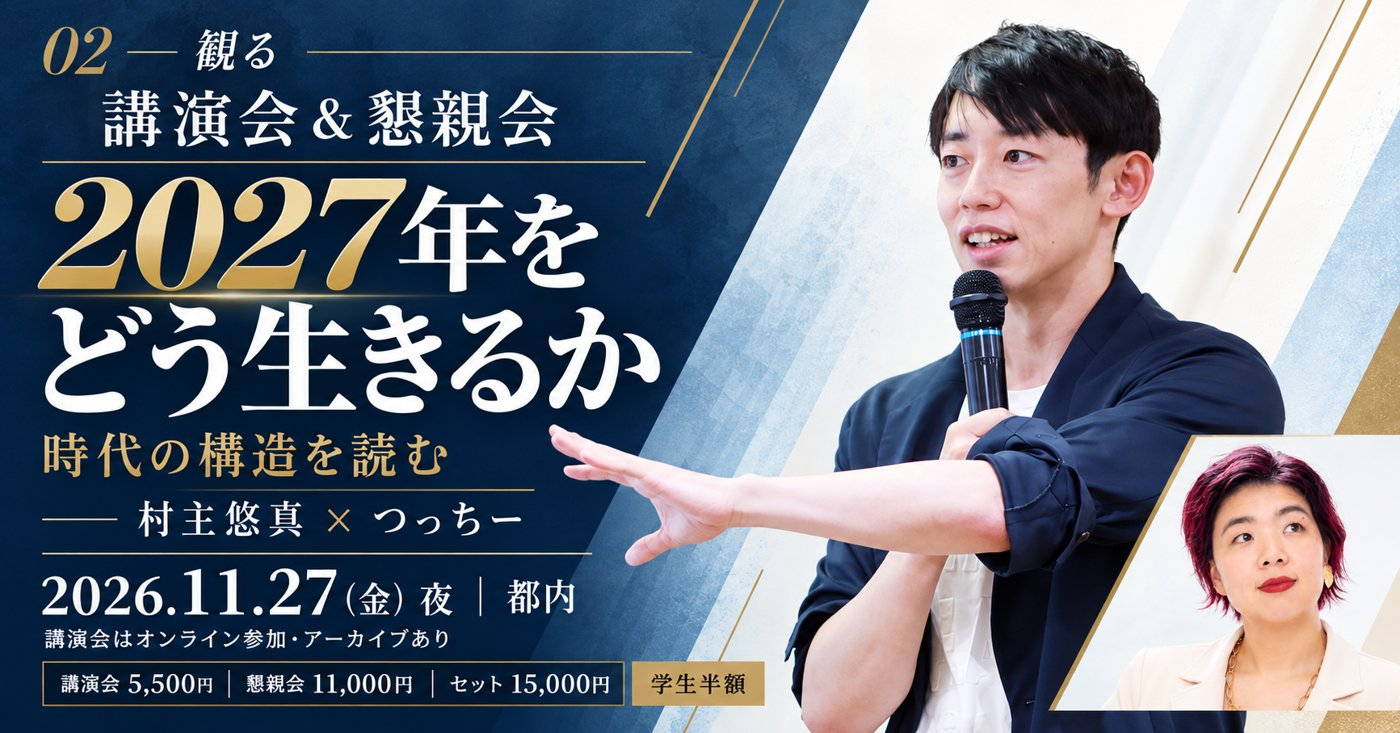
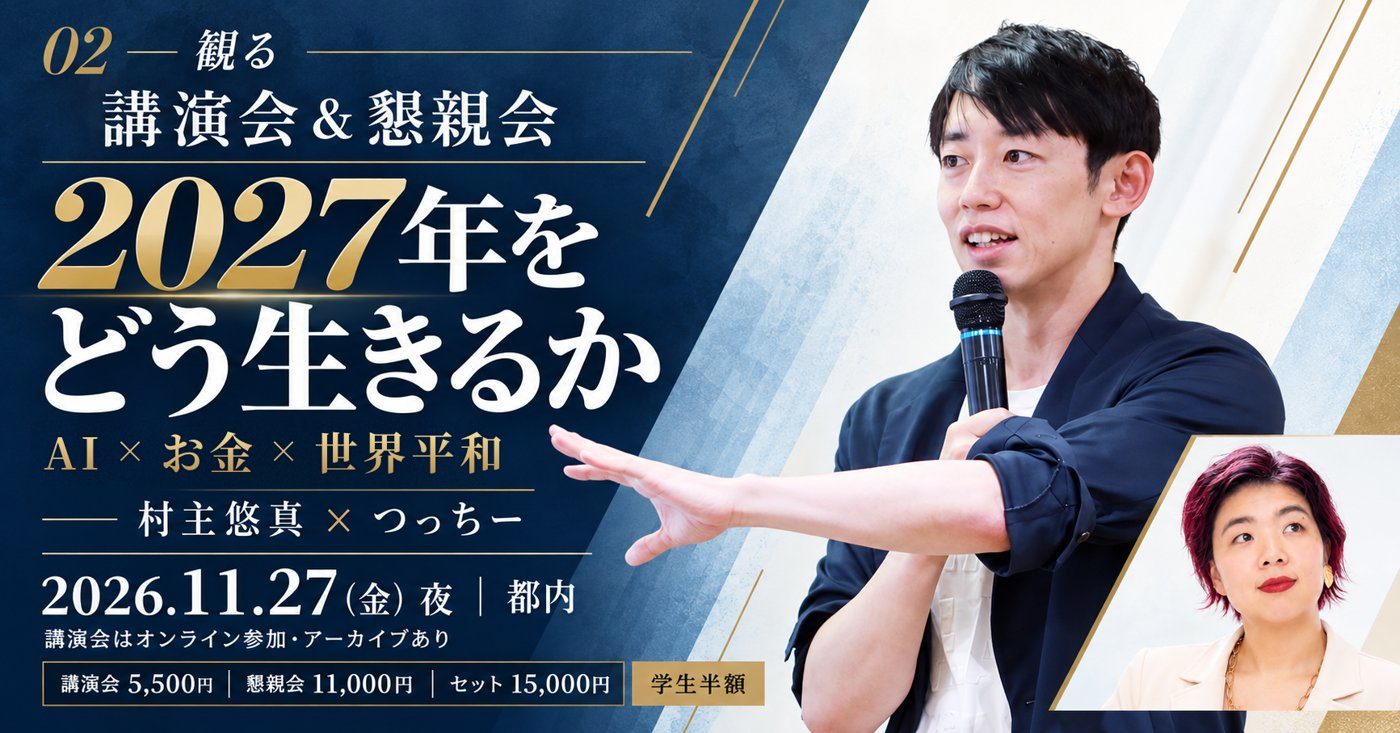
fix (cowork-deploy auto)

Changed region(s): [[0.0307, 0.5703, 0.3686, 0.6603]]

diff --git a/index.html b/index.html
@@ -350,8 +350,8 @@ footer{text-align:center;font-size:12px;color:var(--mu);padding:36px 0 56px;back
 
 <section>
  <div class="wrap">
-  <div class="en">PROGRAM</div>
-  <h2>3回のプログラム</h2>
+  <div class="en">EVENTS</div>
+  <h2>3つのイベント</h2>
 
   <div class="night">
    <img class="nbn" src="ev1104.jpg" alt="11/4 オンライン対談のバナー" loading="lazy">
@@ -374,7 +374,7 @@ footer{text-align:center;font-size:12px;color:var(--mu);padding:36px 0 56px;back
    <div><div class="no">02 ─ 観る</div><div class="date">11.27<small>金</small></div></div>
    <div>
     <span class="tag">講演会＆懇親会</span> <span class="tag">講演会はオンライン・アーカイブあり</span>
-    <h3>2027年をどう生きるか<br>─ 時代の構造を読む</h3>
+    <h3>2027年をどう生きるか<br>─ AI × お金 × 世界平和</h3>
     <p>社会・お金・人のつながりは、これからどう変わるのか。村主悠真さんが虚次元の視点から2027年の流れを読み解きます。講演のあとは懇親会で、登壇者・参加者と直接話せます。</p>
     <div class="more">
      <div class="mh">話すこと（予定）</div><ul class="pts"><li>AIの進化と世界情勢 ─ 2027年、社会・お金・人のつながりはどう変わるのか</li><li>時代の流れに振り回されず、自分の立ち位置を決めるための視点</li><li>虚次元の視点から見た「これからの生き方」</li><li>質疑応答</li></ul>
